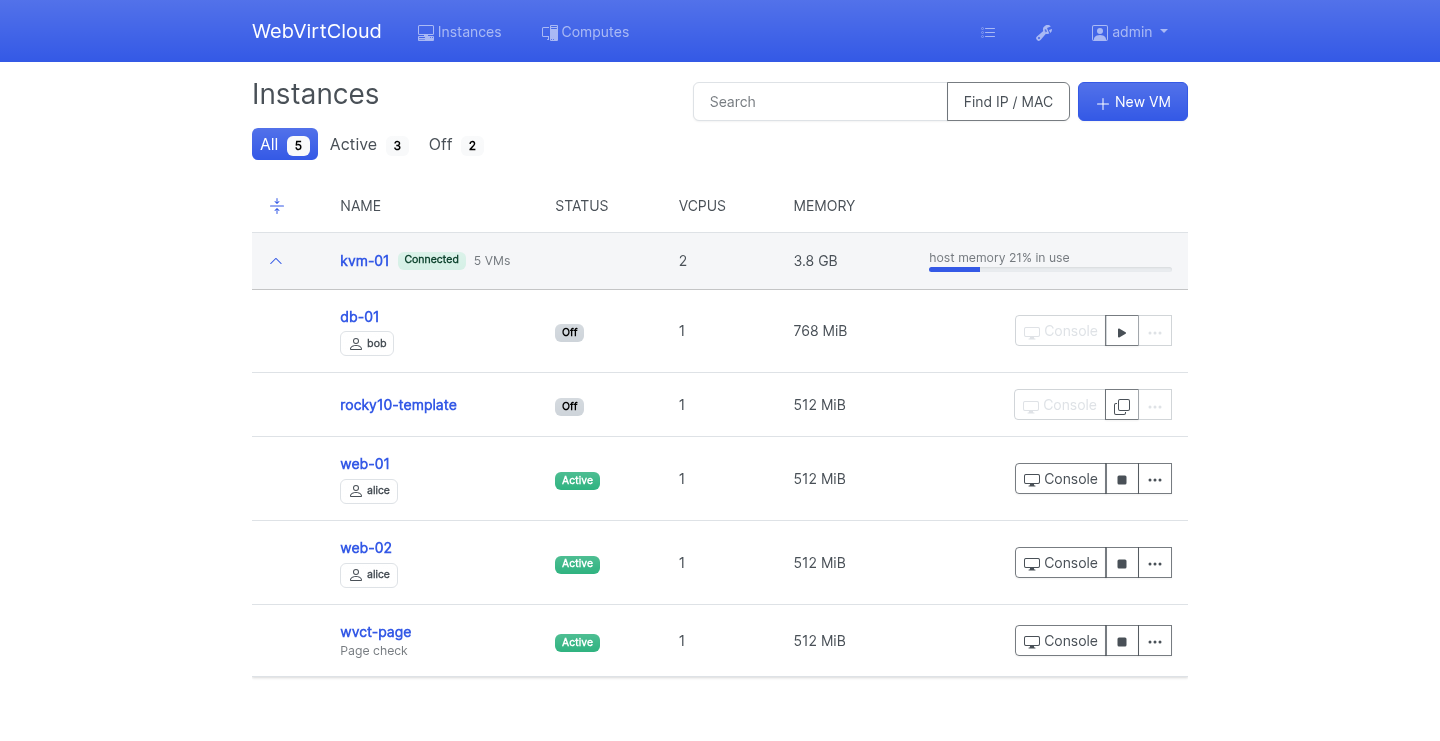
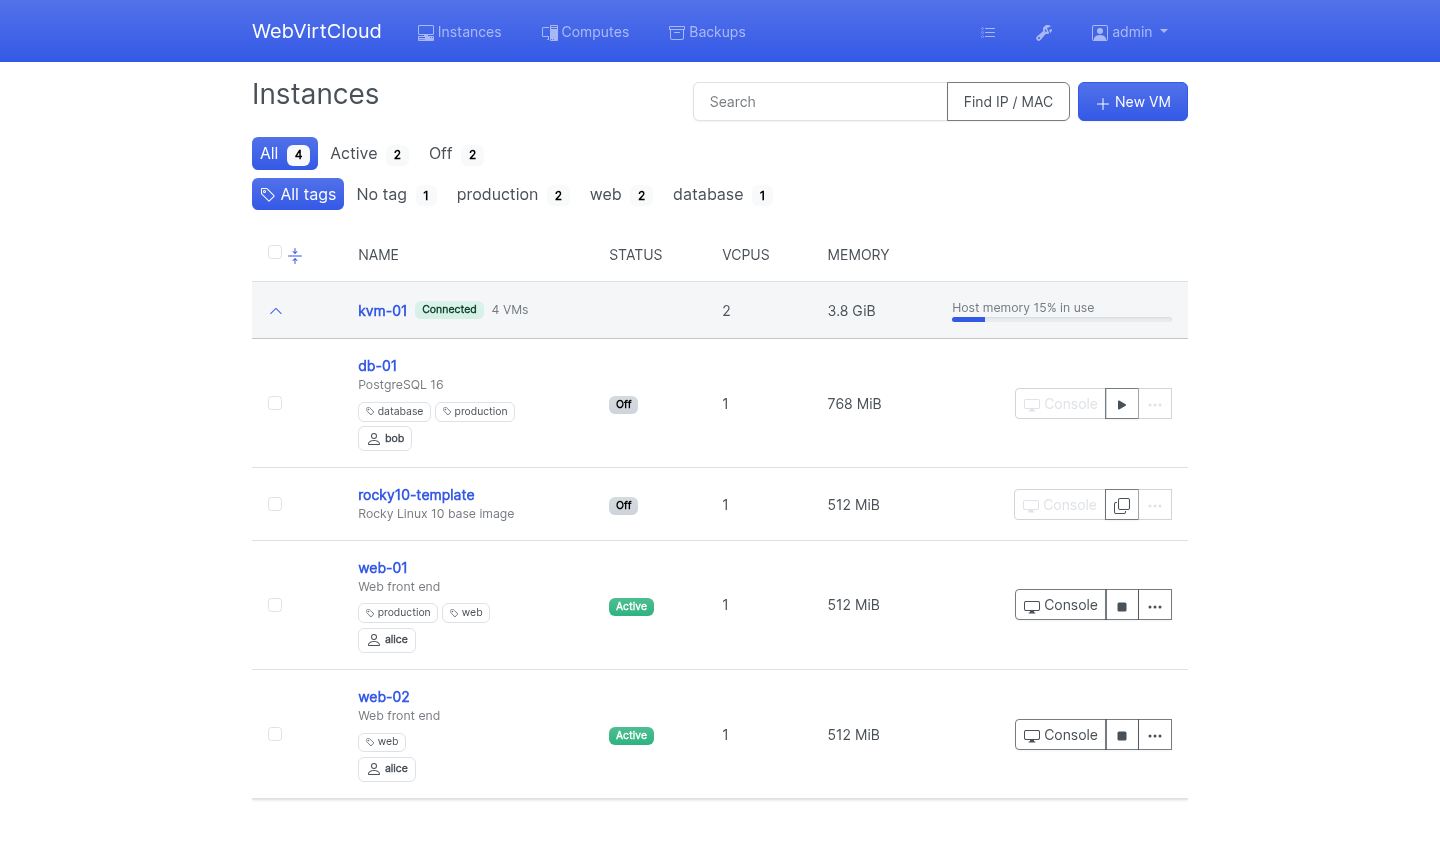
docs(readme): screenshots of the panel as it looks now, and the Backups page
Taken from a fresh panel on a test host with example VMs, users, tags,
backups and a schedule: the VM list with tags and owners, the VM page,
Computes, the host overview, the new VM form, the Logs page with
actions of three users, and the Backups page.

diff --git a/README.md b/README.md
@@ -144,6 +144,10 @@ Then sign in at `http://<server-ip>` as `admin` ([first login](doc/install.md#fi
 |:---:|:---:|
 | ![New VM](doc/images/create.png) | ![Logs](doc/images/logs.png) |
 
+| Backups |
+|:---:|
+| <img src="doc/images/backups.png" alt="Backups" width="50%"> |
+
 ## License
 
 WebVirtCloud is licensed under the [Apache License, Version 2.0](LICENSE).
